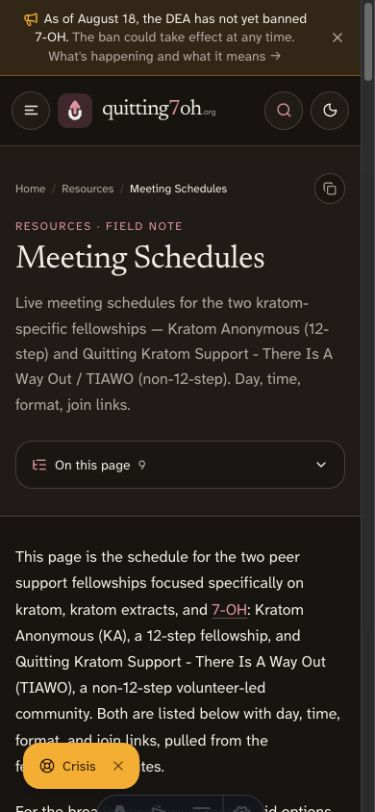
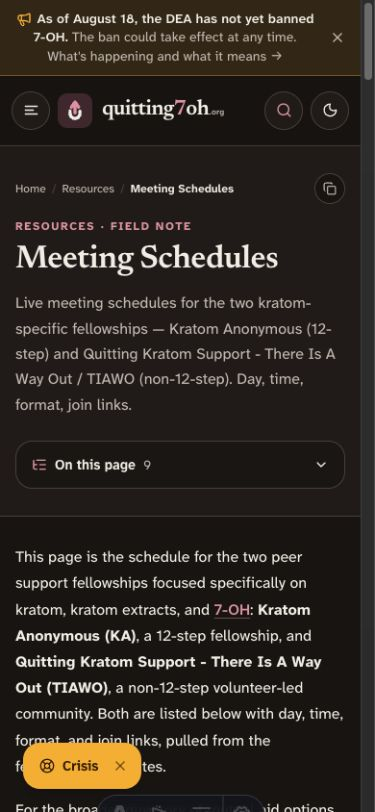
refine reading layout and meeting fallbacks

diff --git a/src/styles/global.css b/src/styles/global.css
@@ -96,7 +96,7 @@
     --secondary: 38 24% 91%;
     --secondary-foreground: 22 15% 18%;
     --muted: 40 25% 93%;
-    --muted-foreground: 24 9% 40%;
+    --muted-foreground: 24 10% 36%;
     --accent: 344 31% 92%;
     --accent-foreground: 344 37% 28%;
     --destructive: 2 62% 43%;
@@ -136,7 +136,7 @@
     --secondary: 22 12% 17%;
     --secondary-foreground: 42 22% 88%;
     --muted: 22 11% 16%;
-    --muted-foreground: 28 10% 66%;
+    --muted-foreground: 30 11% 72%;
     --accent: 344 22% 20%;
     --accent-foreground: 348 48% 82%;
     --destructive: 3 55% 48%;
@@ -183,7 +183,7 @@
     font-family: var(--font-sans);
     font-size: 1rem;
     line-height: 1.6;
-    font-variation-settings: 'wght' 400;
+    font-weight: 430;
     -webkit-font-smoothing: antialiased;
   }
 
@@ -280,8 +280,8 @@
     --tw-prose-td-borders: hsl(var(--border));
     max-width: none;
     color: hsl(var(--foreground));
-    font-size: 1rem;
-    line-height: 1.7;
+    font-size: 1.0625rem;
+    line-height: 1.72;
   }
 
   .prose-recovery > :where(h1, h2, h3, h4) {
@@ -292,7 +292,7 @@
   }
 
   .prose-recovery > h2 {
-    margin: 2.8rem 0 1rem;
+    margin: 2.6rem 0 0.9rem;
     font-size: clamp(1.45rem, 1.42rem + 0.2vw, 1.55rem);
     line-height: 1.25;
   }
@@ -309,12 +309,16 @@
     line-height: 1.35;
   }
 
+  .prose-recovery > :first-child {
+    margin-top: 0;
+  }
+
   .prose-recovery > p {
-    margin: 0 0 1.25rem;
+    margin: 0 0 1.15rem;
   }
 
   .prose-recovery :where(p, li) {
-    line-height: 1.7;
+    line-height: 1.72;
   }
 
   .prose-recovery :where(ul, ol):not(.not-prose *) {

diff --git a/src/components/NextMeeting.tsx b/src/components/NextMeeting.tsx
@@ -110,6 +110,29 @@ function shouldShowNextUp(status: MeetingStatus): boolean {
   return status === 'live-now' || status === 'meeting-starting';
 }
 
+function LiveMeetingAlternatives({ standalone = false }: { standalone?: boolean }) {
+  return (
+    <div
+      className={cn(
+        'flex flex-col gap-2.5 text-sm sm:flex-row sm:items-center sm:justify-between',
+        standalone ? 'field-card p-5 sm:p-6' : 'border-t border-border pt-3.5',
+      )}
+    >
+      <span className="font-medium text-foreground/80">
+        No 7-OH/kratom meeting is live right now.
+      </span>
+      <span className="flex flex-wrap gap-x-4 gap-y-2 font-bold">
+        <a href="/virtual-na-meetings-now" className="text-primary hover:underline">
+          Live NA meetings
+        </a>
+        <a href="/virtual-smart-meetings-now" className="text-primary hover:underline">
+          Live SMART meetings
+        </a>
+      </span>
+    </div>
+  );
+}
+
 function MeetingCard({ display, now }: CardProps) {
   const { meeting, start, end, status } = display;
   const badge = STATUS_BADGE[status];
@@ -202,6 +225,8 @@ function MeetingCard({ display, now }: CardProps) {
         </div>
       )}
 
+      {!shouldShowNextUp(status) && <LiveMeetingAlternatives />}
+
     </div>
   );
 }
@@ -222,7 +247,7 @@ export function NextMeeting() {
   if (!now) return null;
 
   const display = findDisplayMeeting(now);
-  if (!display) return null;
+  if (!display) return <LiveMeetingAlternatives standalone />;
 
   return <MeetingCard display={display} now={now} />;
 }

diff --git a/REDESIGN.md b/REDESIGN.md
@@ -22,9 +22,9 @@ repeating each category description.
   small sizes.
 - **Newsreader Variable** handles titles and section headings. Its moderate
   contrast adds warmth without turning the site into a magazine layout.
-- The reading column tops out at 44rem. Body copy is 16px with a 1.7 line
-  height and 20px paragraph spacing. Dose and schedule data use tabular
-  numerals.
+- The reading column tops out at 48rem. Body copy is 17px on larger screens
+  and 16px on phones, with a 1.72 line height. Dose and schedule data use
+  tabular numerals.
 - Content-page titles run from 2.1rem to 2.5rem. Article section headings stay
   near 1.55rem. The larger display scale is reserved for the homepage.
 - Lists use familiar disc and decimal markers with restrained mulberry color.

diff --git a/src/content/about/changelog.md b/src/content/about/changelog.md
@@ -18,6 +18,11 @@ This page tracks substantive changes to the site: new pages, rewrites, layout wo
 
 ### Redesign follow-up
 
+- Expanded article pages to a 48rem reading measure, aligned page headers with
+  the article column, removed the first-heading gap, and fixed a variable-font
+  override that forced all weights to 400.
+- Renamed the homepage meeting block to "7OH/Kratom support meeting" and added
+  live NA and SMART Recovery links whenever no kratom-specific meeting is live.
 - Added a Discord invite beside the meeting action in the desktop header. It
   shows the current online count when Discord's widget API is available.
 - Replaced slogan-like homepage and brand-guide copy with direct labels and

diff --git a/CHANGELOG.md b/CHANGELOG.md
@@ -10,6 +10,11 @@ the public changelog at `/about/changelog`, generated by
 
 ### Redesign follow-up
 
+- Expanded article pages to a 48rem reading measure, aligned page headers with
+  the article column, removed the first-heading gap, and fixed a variable-font
+  override that forced all weights to 400.
+- Renamed the homepage meeting block to "7OH/Kratom support meeting" and added
+  live NA and SMART Recovery links whenever no kratom-specific meeting is live.
 - Added a Discord invite beside the meeting action in the desktop header. It
   shows the current online count when Discord's widget API is available.
 - Replaced slogan-like homepage and brand-guide copy with direct labels and
